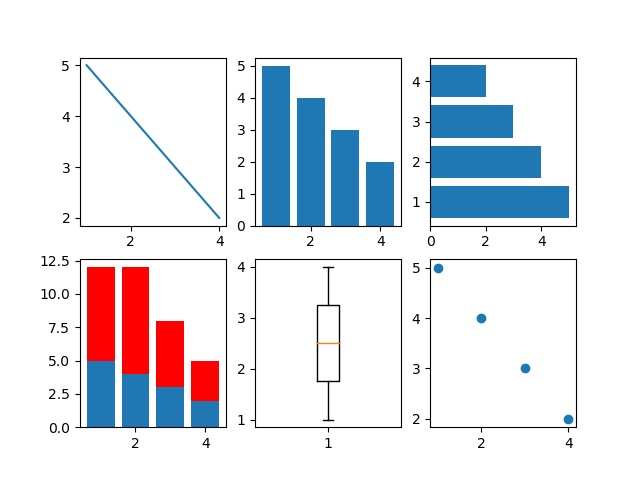
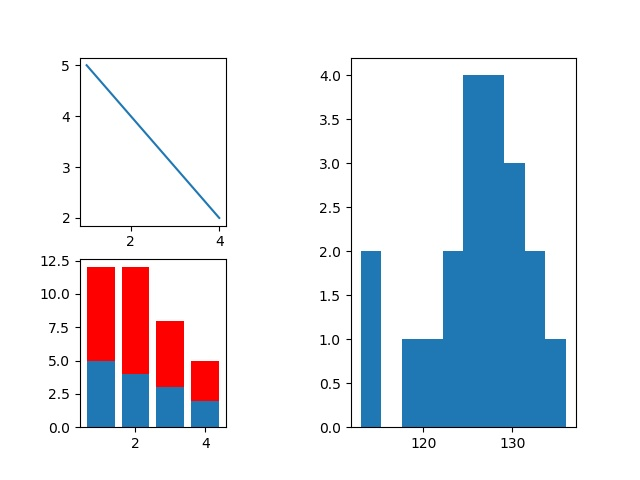
正弦、余弦图、直方图

diff --git a/example/03_Code/ch03-rec02-sin-cos-simple.py b/example/03_Code/ch03-rec02-sin-cos-simple.py
@@ -1,0 +1,22 @@
+import matplotlib.pyplot as pl
+import numpy as np
+
+x = np.linspace(-np.pi, np.pi, 256, endpoint=True)
+y = np.cos(x)
+y1 = np.sin(x)
+pl.plot(x, y)
+pl.plot(x, y1)
+# 图表名称
+pl.title("Functions $\sin$ and $\cos$")
+# x,y轴坐标范围
+pl.xlim(-3, 3)
+pl.ylim(-1, 1)
+# 坐标上刻度
+pl.xticks([-np.pi, -np.pi / 2, 0, np.pi / 2, np.pi],
+       [r'$-\pi$', r'$-\pi/2$', r'$0$', r'$+\pi/2$', r'$+\pi$'])
+pl.yticks([-1, 0, 1],
+       [r'$-1$', r'$0$', r'$+1$'])
+# 网格
+pl.grid()
+pl.savefig('./img/sin-cos.jpg')#保存成图片
+pl.show()

diff --git a/example/03_Code/ch03-rec03-sin-cos-final.py b/example/03_Code/ch03-rec03-sin-cos-final.py
@@ -1,0 +1,17 @@
+from pylab import *
+import numpy as np
+
+x = np.linspace(-np.pi, np.pi, 256, endpoint=True)
+y = np.cos(x)
+y1 = np.sin(x)
+plot(x, y)
+
+plot(x, y1)
+title("Functions $\sin$ and $\cos$")
+xlim(-3.0, 3.0)
+ylim(-1.0, 1.0)
+xticks([-np.pi, -np.pi/2, 0, np.pi/2, np.pi],
+          [r'$-\pi$', r'$-\pi/2$', r'$0$', r'$+\pi/2$', r'$+\pi$'])
+yticks([-1, 0, +1],
+          [r'$-1$', r'$0$', r'$+1$'])
+show()

diff --git a/example/03_Code/ch03-rec04-box-vs-histogram.py b/example/03_Code/ch03-rec04-box-vs-histogram.py
@@ -1,15 +1,11 @@
 from pylab import *
-
 dataset = [113, 115, 119, 121, 124, 
            124, 125, 126, 126, 126,
            127, 127, 128, 129, 130,
            130, 131, 132, 133, 136]
-
-
 subplot(121)
-boxplot(dataset, vert=False)
-
+boxplot(dataset, vert=False)#箱线图
 subplot(122)
-hist(dataset)
-
+hist(dataset)#直方图
+savefig('./img/historgram.jpg')#保存成图片
 show()

diff --git a/README.md b/README.md
@@ -76,3 +76,36 @@ savefig('./img/plotting.jpg')#保存成图片
 show()
 ```
 ![常用图](/example/03_Code/img/plotting.jpg)
+- 直方图
+```
+dataset = [113, 115, 119, 121, 124, 
+           124, 125, 126, 126, 126,
+           127, 127, 128, 129, 130,
+           130, 131, 132, 133, 136]
+subplot(122)
+hist(dataset)#直方图
+show()
+```
+![直方图](/example/03_Code/img/historgram.jpg)
+- 正弦、余弦图
+```
+x = np.linspace(-np.pi, np.pi, 256, endpoint=True)
+y = np.cos(x)
+y1 = np.sin(x)
+pl.plot(x, y)
+pl.plot(x, y1)
+# 图表名称
+pl.title("Functions $\sin$ and $\cos$")
+# x,y轴坐标范围
+pl.xlim(-3, 3)
+pl.ylim(-1, 1)
+# 坐标上刻度
+pl.xticks([-np.pi, -np.pi / 2, 0, np.pi / 2, np.pi],
+       [r'$-\pi$', r'$-\pi/2$', r'$0$', r'$+\pi/2$', r'$+\pi$'])
+pl.yticks([-1, 0, 1],
+       [r'$-1$', r'$0$', r'$+1$'])
+# 网格
+pl.grid()
+show()
+```
+![正弦、余弦图](/example/03_Code/img/sin-cos.jpg)
